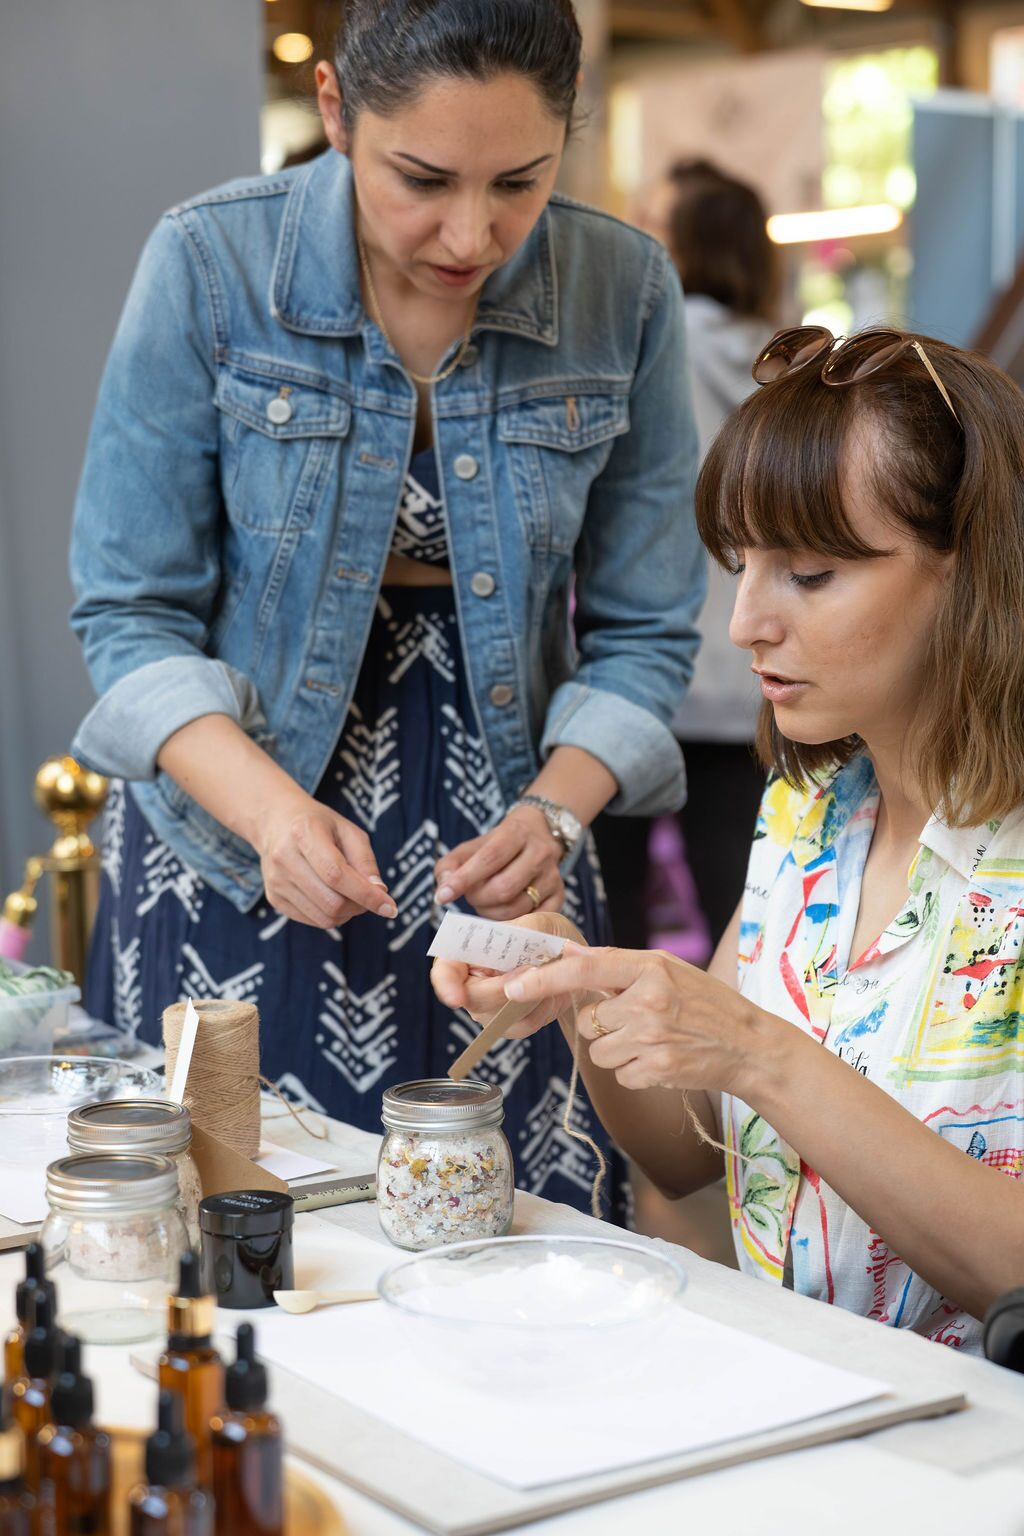
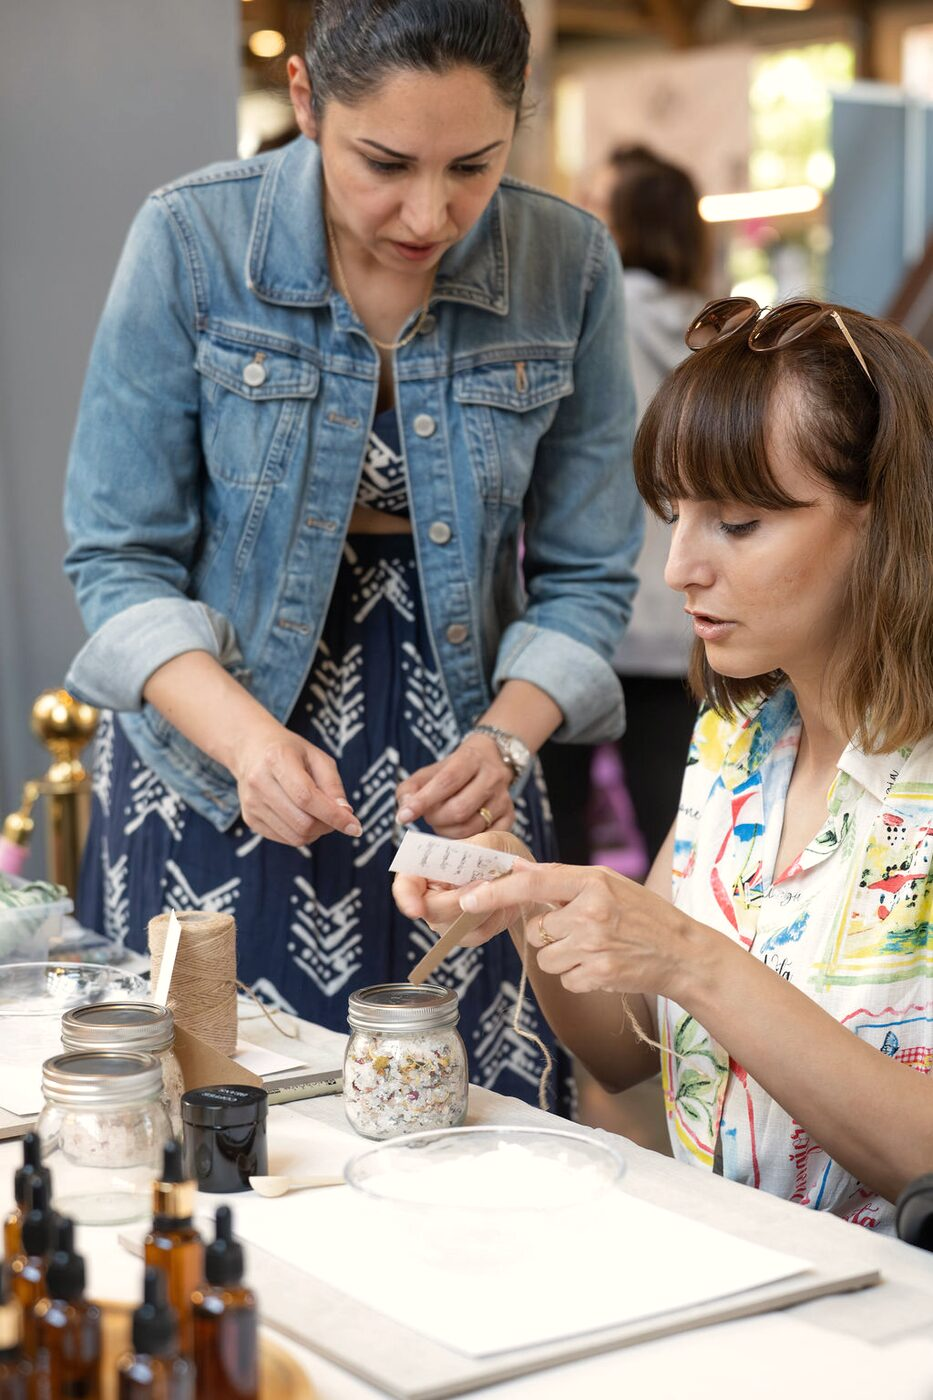
Activations In Action: new heading, wider station and hands photos, matched tones
Claude-Session: https://claude.ai/code/session_01J2qjbLUgu2XiSijQbB6wJb

diff --git a/activations/index.html b/activations/index.html
@@ -143,11 +143,11 @@
     <div class="wrap" style="max-width: 1200px;">
       <div class="center reveal" style="margin-bottom: 3rem;">
         <p class="section-label">In Action</p>
-        <h2 class="section-title">Bath Soak Blending, <em>up close</em></h2>
+        <h2 class="section-title">A Little Look <em>Behind the Experience</em></h2>
       </div>
       <div class="card-grid-3 project-photos">
-        <div class="reveal"><img src="/images/act-salts-guide.jpg" alt="Guiding guests through the mineral salt bar" /></div>
-        <div class="reveal"><img src="/images/act-guest-jar.jpg" alt="A smiling guest holding her finished bath soak and Root &amp; Craft tag" /></div>
+        <div class="reveal"><img src="/images/act-ia-station.jpg" alt="A bath soak blending station set with salts, botanicals, oils and jars" /></div>
+        <div class="reveal"><img src="/images/act-ia-hands.jpg" alt="Hands tying twine and a tag onto a finished bath soak jar" /></div>
         <div class="reveal"><img src="/images/act-guests-tags.jpg" alt="Guests tying personalized tags onto their bath soak jars" /></div>
       </div>
     </div>
